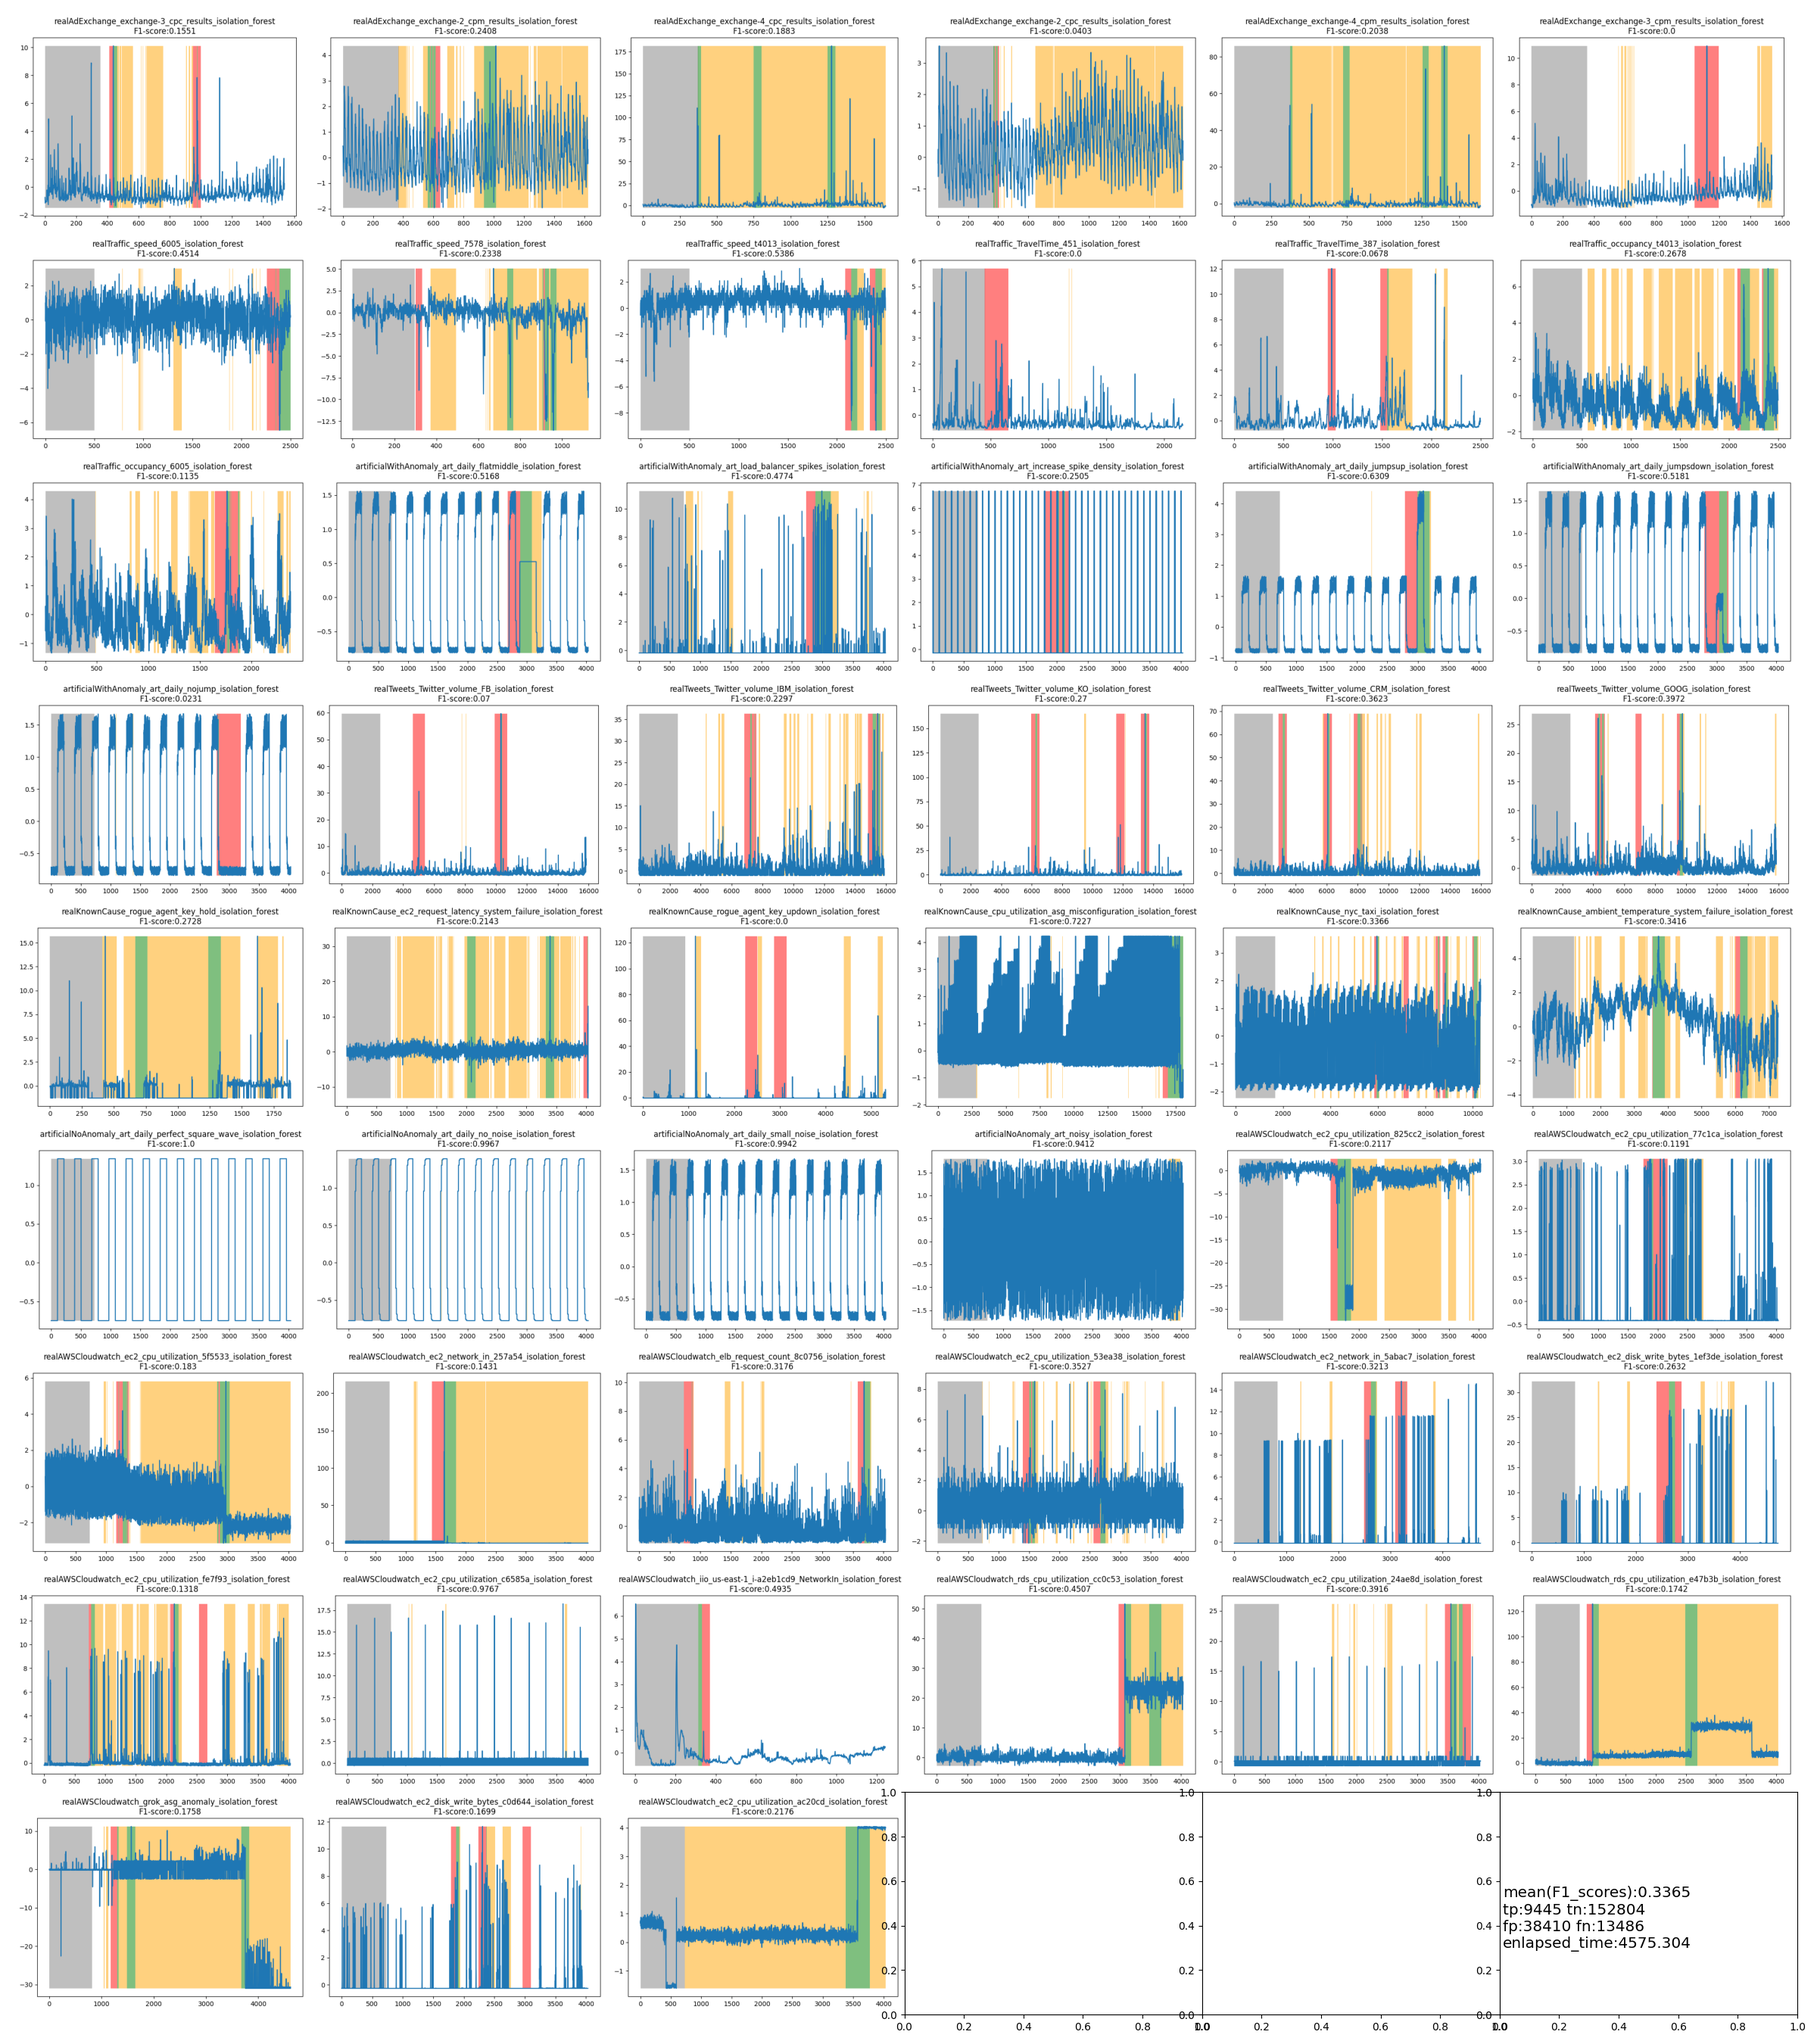
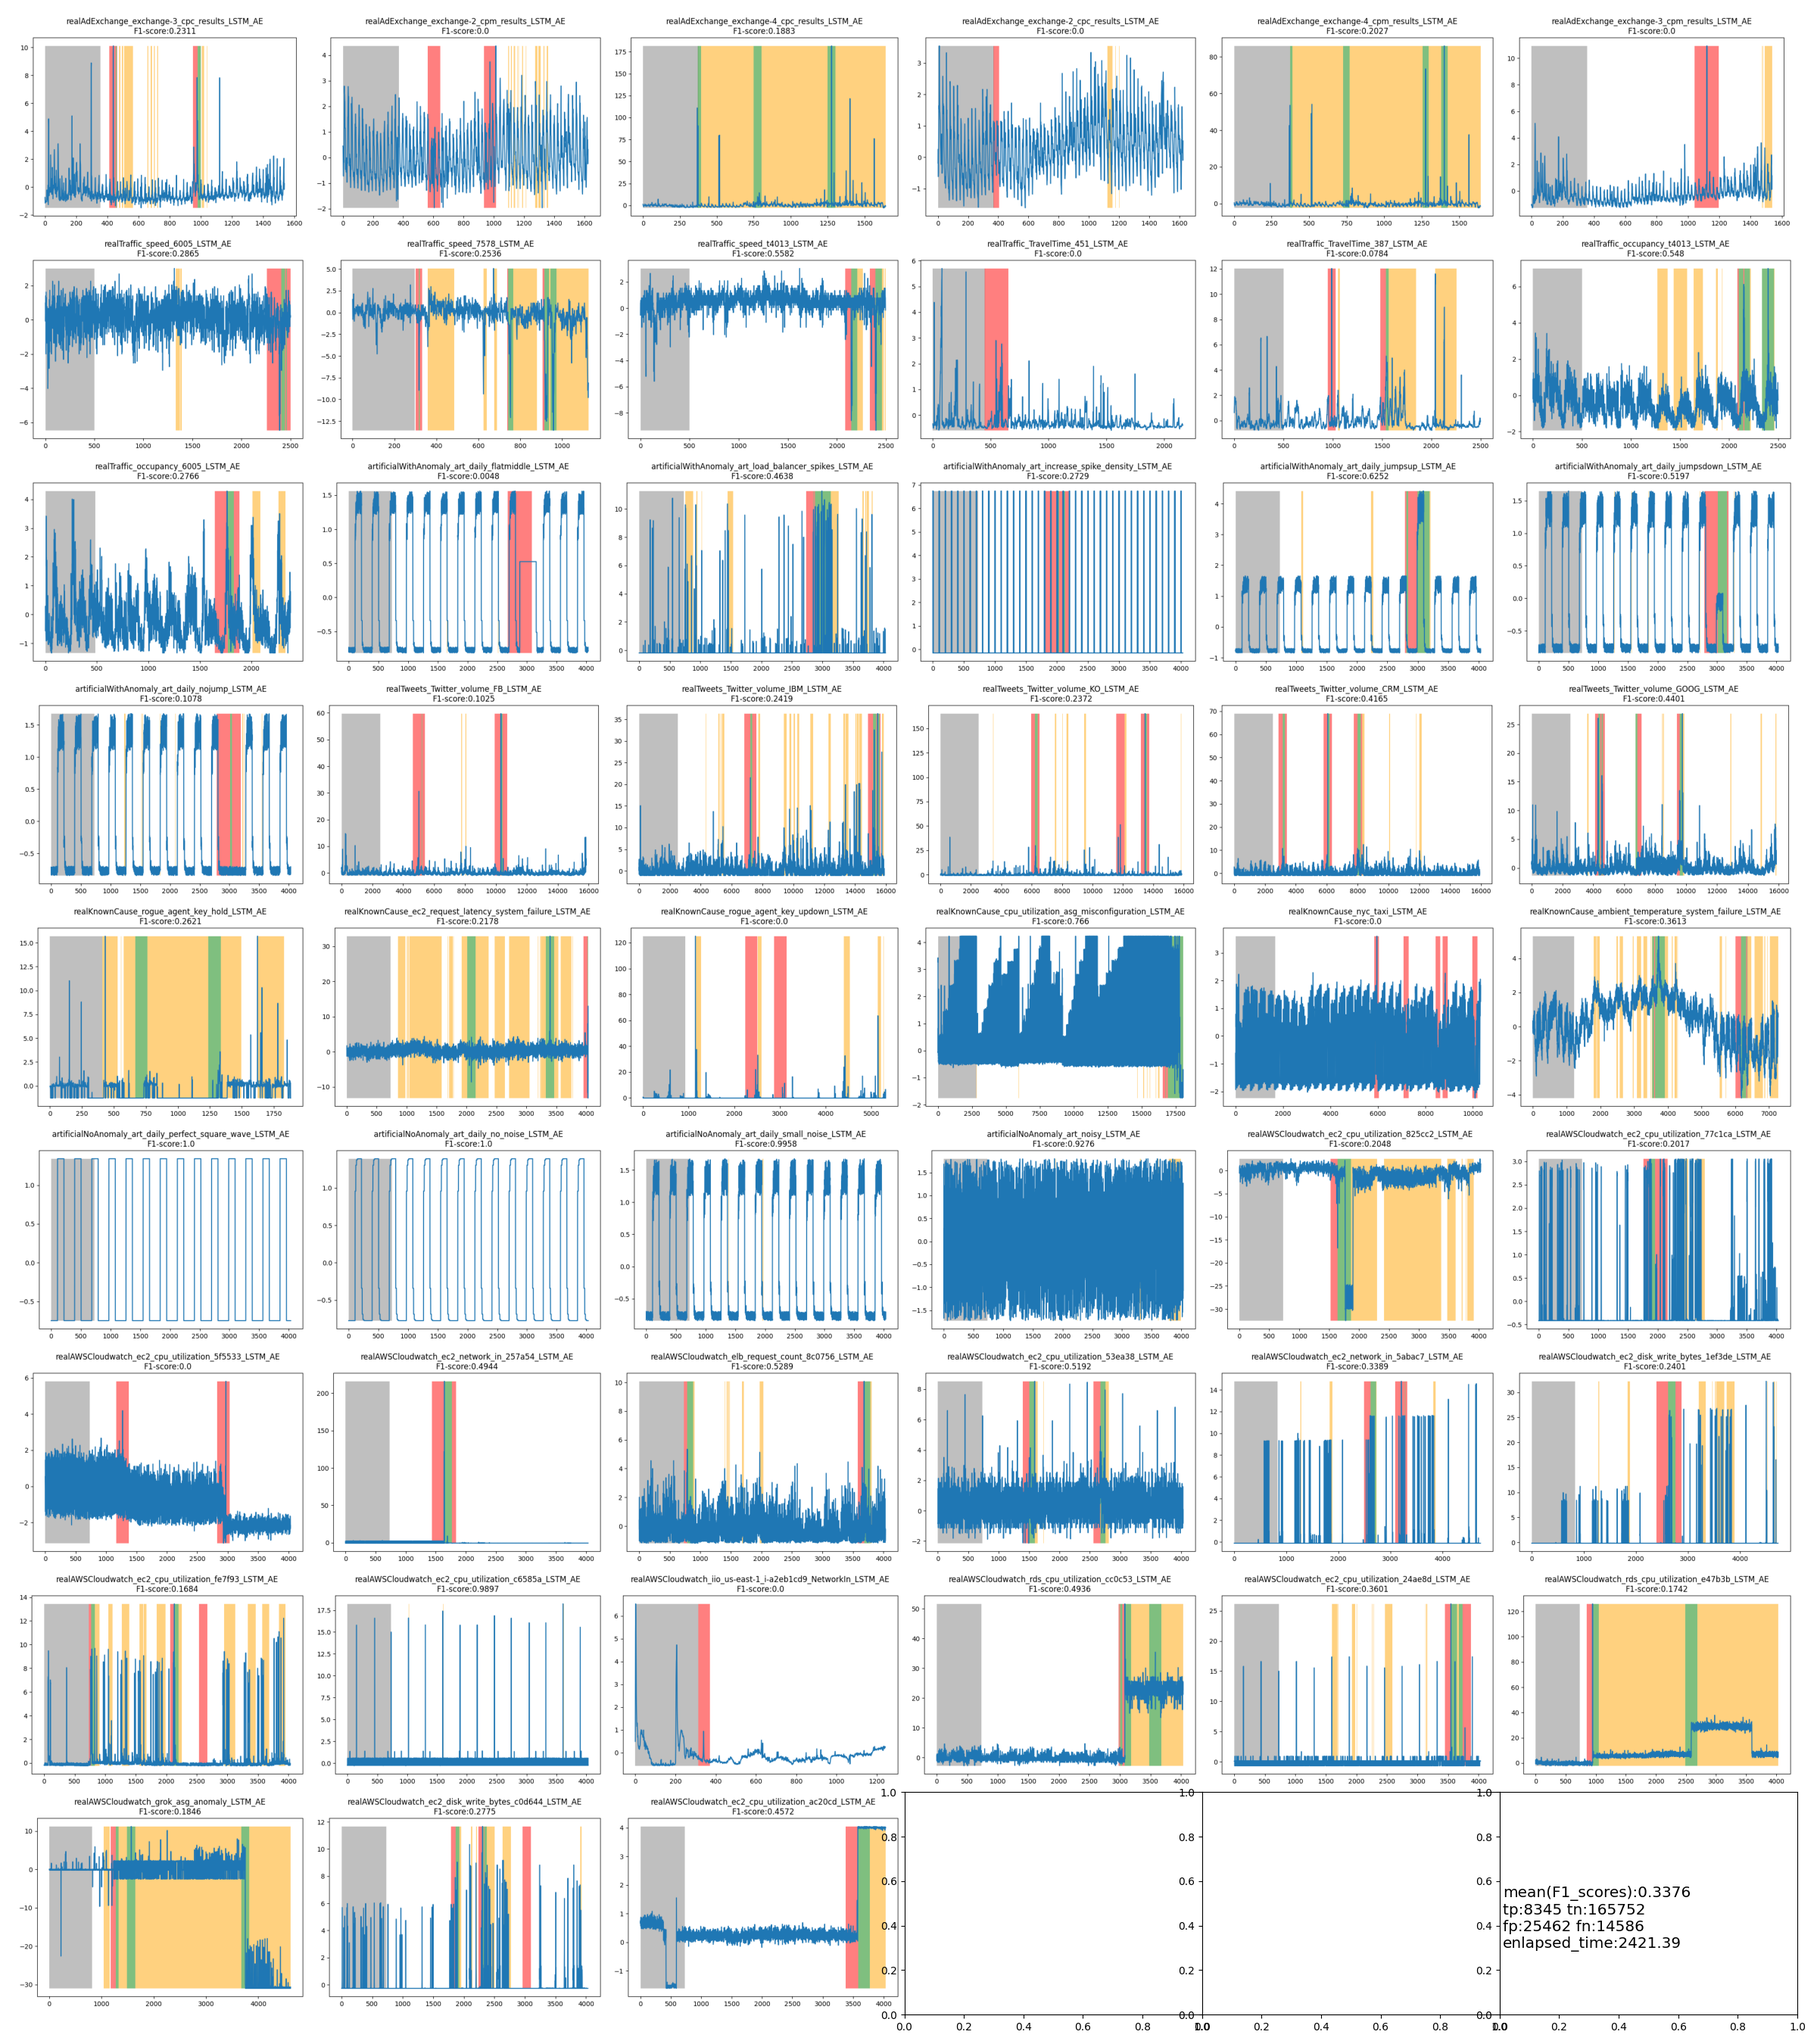
add STUMP algorithm, LSTM_AE features extractor is now more robust by post-processing NaN values

diff --git a/offline_strategies/autoencoder.py b/offline_strategies/autoencoder.py
@@ -25,7 +25,7 @@ def default_conv_hyperparameters():
             "init_filters": 32, "dropout_rate":0.2, "lr":0.001, "nb_layers":4,
             "batch_size":128,"l2_reg":0.001,"percentile":0.999,"epochs":1000}
 
-def _from_loss_to_proba(rescaled_reconstruction_loss, rescaled_thresh):
+def _from_standardized_loss_to_proba(rescaled_reconstruction_loss, rescaled_thresh):
     try:
         # check
         assert (1. >= rescaled_reconstruction_loss >= 0.)
@@ -44,6 +44,15 @@ def _from_loss_to_proba(rescaled_reconstruction_loss, rescaled_thresh):
 
     reconstruction_proba=np.clip(reconstruction_proba,0,1)
     return reconstruction_proba
+
+def _from_loss_to_proba(raw_reconstruction_loss,raw_threshold, min_train, max_train):
+    rescaled_thresh = (raw_threshold - min_train) / (max_train - min_train)
+    rescaled_reconstruction_loss = ((raw_reconstruction_loss - min_train) / (max_train - min_train))
+    rescaled_reconstruction_loss = np.clip(rescaled_reconstruction_loss, 0, 1)
+    probabilities = np.zeros((len(rescaled_reconstruction_loss),))
+    for i, l in enumerate(rescaled_reconstruction_loss):
+        probabilities[i] = _from_standardized_loss_to_proba(l, rescaled_thresh)
+    return probabilities
 
 def LSTM_AE_keras(x,X_train,hyperparameters):
     # Dimensions are write before each line break. The batch_size dims is ignored for visibility purpose
@@ -221,13 +230,7 @@ class AE:
 
         reconstruction_loss = np.mean(np.abs(x_frames_pred - x_frames), axis=1)
 
-        rescaled_thresh=(self.threshold-self.min)/(self.max-self.min)
-        rescaled_reconstruction_loss=((reconstruction_loss-self.min)/(self.max-self.min))
-        rescaled_reconstruction_loss=np.clip(rescaled_reconstruction_loss,0,1)
-
-        probabilities=np.zeros((len(rescaled_reconstruction_loss),))
-        for i,l in enumerate(rescaled_reconstruction_loss):
-            probabilities[i]=_from_loss_to_proba(l, rescaled_thresh)
+        probabilities=_from_loss_to_proba(reconstruction_loss,self.threshold,self.min,self.max)
         return probabilities
 
     def features_extractor(self,x_frames):
@@ -244,6 +247,10 @@ class AE:
             raise ValueError("Error in features_extractor(). Unexpected features vector shape")
 
         features=np.reshape(features,newshape=newshape)
+
+        # handle nan values to be more robust
+        features[np.isnan(features)]=0.
+
         return features
 
     def __del__(self):

diff --git a/experiments.py b/experiments.py
@@ -17,6 +17,8 @@ def LAUNCH_EXPERIMENTS_AT_SCALE(feature_extractor_name, detector_name, datasets)
     paths_for_mosaic=[] # we will build a beautiful mosaic
     stats_for_mosaic=[]
     for dataset_name, dataset in datasets.items():
+            name = dataset_name.replace(os.sep, "_").split(".")[0] + "_"+detector_name
+            path = os.path.join("tmp", name + ".png")
             stat,details=EXPERIMENT(dataset,
                                      dataset_name,
                                      train_test_split_rate=0.15,
@@ -26,12 +28,11 @@ def LAUNCH_EXPERIMENTS_AT_SCALE(feature_extractor_name, detector_name, datasets)
                                      AD_strategies_name=detector_name,
                                      proba_thresh=0.5
                                      )
+
+
             if stat is not None:
                 # Monitor
                 print(dataset_name, " stats:", stat)
-                name = dataset_name.replace(os.sep, "_").split(".")[0] + "_isolation_forest"
-                path = os.path.join("tmp", name + ".png")
-
                 paths_for_mosaic.append(path)
                 stats_for_mosaic.append(stat)
                 txt = name + "\nF1-score:" + str(stat["f1"])

diff --git a/main.py b/main.py
@@ -1,11 +1,16 @@
+import os
+os.environ["CUDA_VISIBLE_DEVICES"]="-1" # The CPU is about as fast as the GPU for TS applications and contains much more memory
+
+
 from experiments import LAUNCH_EXPERIMENTS_AT_SCALE
 from strat_map import detector_strat_map,feature_extractor_strat_map
 if __name__=="__main__":
     from extract_data import extract_datasets
     datasets=extract_datasets("./data/NAB/")
-    feature_extractor="IDENTITY"
+    fe_strat_name="LSTM_AE"
+    detector_strat_name= "IFOREST" # Isolation Forest implemented by scikit-learn
+    #for detector_strat_name in ["STUMP"]: # for each known detection strategy
 
-    for detector in detector_strat_map.keys(): # for each known detection strategy
-        print("Compute the mosaic with the strategy: ", detector)
-        results=LAUNCH_EXPERIMENTS_AT_SCALE(feature_extractor,detector,datasets)
-        print(feature_extractor, detector, results)
+    print("Compute the mosaic with the strategy: ", detector_strat_name)
+    results=LAUNCH_EXPERIMENTS_AT_SCALE(fe_strat_name, detector_strat_name, datasets)
+    print(fe_strat_name, detector_strat_name, results)

diff --git a/realtime_strategies/algos.py b/realtime_strategies/algos.py
@@ -163,6 +163,32 @@ def CADKNN(train_dataset, test_dataset, hyperparameters={}):
     return predict_with_strat(algo, test_dataset)
 
 
+def stump(train_dataset, test_dataset,hyperparameters={"w":128,"quantile":0.9}):
+    import stumpy
+    from stumpy import stumpi
+    mp=stumpi(train_dataset["x"],hyperparameters["w"],egress=False)
+    for x in test_dataset["x"]:
+        mp.update(x)
+
+    # extract distances and thresh
+    distances=mp.left_P_
+
+
+    # offset training distances
+    training_distances=distances[:len(train_dataset["x"])]
+    training_distances=training_distances[hyperparameters["w"]//2:]
+
+    testing_distances=distances[-1*len(test_dataset["x"]):]
+
+    from offline_strategies.autoencoder import _from_loss_to_proba
+    min=np.min(training_distances)
+    max=np.max(training_distances)
+    thresh=np.quantile(training_distances,hyperparameters["quantile"])
+    proba=_from_loss_to_proba(testing_distances,thresh,min,max)
+    assert(len(proba)==len(test_dataset["x"]))
+
+
+    return proba
 
 
 

diff --git a/strat_map.py b/strat_map.py
@@ -1,5 +1,5 @@
 # When a new algorithm is implemented do not forget to update this file
-from realtime_strategies.algos import CADKNN,RE,Numenta,OSE
+from realtime_strategies.algos import CADKNN,RE,Numenta,OSE,stump
 from offline_strategies.algos import oneclass_svm,isolation_forest,elliptic_envelope
 from offline_strategies.algos import conv_AE_reconstruction,LSTM_AE_reconstruction,dense_AE_reconstruction
 from offline_strategies.from_signal_to_frames import ROCKET, DATAAUG, IDENTITY
@@ -9,6 +9,7 @@ detector_strat_map={"RE":(RE,True),
            "CADKNN":(CADKNN,True),
            "ARTIME":(Numenta,True),
            "OSE":(OSE,True),
+            "STUMP":(stump,True),
 
            "ELLIPTIC": (elliptic_envelope,False),
            "ONESVM": (oneclass_svm,False),

diff --git a/offline_strategies/AEC.py b/offline_strategies/AEC.py
@@ -1,4 +1,4 @@
-
+"""
 from tensorflow.compat.v1 import ConfigProto
 from tensorflow.compat.v1 import InteractiveSession
 config = ConfigProto()
@@ -155,3 +155,4 @@ class AE:
         except:
             pass
 
+"""

diff --git a/README.md b/README.md
@@ -40,7 +40,7 @@ To compare multiple workflows at scale on many time series I design this workflo
 
 Methods used:
 - Features extractor may include: data augmentation (keyword: "DATAAUG"), ROCKET [^1] ("ROCKET"), autoencoder compression ("DENSE_AE","CONV_AE","LSTM_AE"), or no one ("IDENTITY").
-- Realtime detectors:  Adaptive Resonance [^2] ("ARTIME"), Conformal Anomaly Detector K-NN [^3] ("CADKNN"), x ("OSE"), Relative Entropy ("RE").
+- Realtime detectors:  Adaptive Resonance [^2] ("ARTIME"), Conformal Anomaly Detector K-NN [^3] ("CADKNN"), x ("OSE"), Relative Entropy ("RE"), STUMP ("STUMP")
 - Offline detectors: Autocoender with loss reconstruction ("DENSE_AE","CONV_AE","LSTM_AE"), IsolationForest [^4] ("IFOREST"), One-class SVM ("ONESVM"), EllipticEnvelope ("ELLIPTIC").
 
 
@@ -48,7 +48,7 @@ Methods used:
 [^2]: "Unsupervised real-time anomaly detection for streaming data", S. Ahmada et al., Neurocomputing 2017, https://doi.org/10.1016/j.neucom.2017.04.070 
 [^3]: "Conformal k-NN Anomaly Detector for Univariate Data Streams", V. Ishimtsev et al., PMLR 2017, http://proceedings.mlr.press/v60/ishimtsev17a/ishimtsev17a.pdf
 [^4]: "Isolation forest", ICDM 2008, F. T. Liu, https://doi.org/10.1109/ICDM.2008.17
-
+[^5]: "STUMP", S.M. Law,2019, Journal of Open Source Software, 2019
 
 Notice: all methods have been (hyper-)parametrized either re-using commonly used values or by doing myself some preliminary experiments
 
@@ -58,7 +58,7 @@ Frameworks used:
 - scikit-learn [relevant doc page here](https://scikit-learn.org/stable/modules/outlier_detection.html): (non-deep) Machine Learning offline anomaly detectors: One-class SVM, Isolation Forest, Elliptic Envelope...
 - numenta [github here](https://github.com/numenta/NAB): Realtime anomaly detection. It implements recent methods such as ARTime.
 - tensorflow2.9 [relevant doc page here](https://keras.io/examples/timeseries/timeseries_anomaly_detection/): Autoencoder for detecting anomaly based on loss reconstruction, or Autoencoder for extract features.
-
+- stumpy
 
 # DATASETS
 The time series are included in this github in ./data/NAB/. Official link is: https://github.com/numenta/NAB/tree/master/data
@@ -81,11 +81,7 @@ To analyse a result and compare fairly multiple pipelines it is required to eval
 
 ## Comparing different features extractors
 
-I compare a few implemented features extractor with a commonly used detector: IsolationForest. The tested features extraction strategy are:
-* The raw normed signal (key-word: "IDENTITY") rocket and 
-* Features extracted from an autoencoder ("AE")
-* ROCKET algorithm, see ref. below ("ROCKET"")
-* Data-augmented raw normed signal ("DATAAUG")
+I compare a few implemented features extractor with a commonly used detector: IsolationForest for its speed and predictions quality.
 
 ```python
 from experiments import LAUNCH_EXPERIMENTS_AT_SCALE
@@ -101,9 +97,11 @@ if __name__=="__main__":
 produces:
 ```
 IDENTITY IFOREST {'time': 33.986, 'tp': 7928, 'tn': 157209, 'fp': 34005, 'fn': 15003, 'f1': 0.2964}
-AE IFOREST {'time': 2856.494, 'tp': 7124, 'tn': 161476, 'fp': 29738, 'fn': 15807, 'f1': 0.2918}
 ROCKET IFOREST {'time': 176.478, 'tp': 7557, 'tn': 163776, 'fp': 27438, 'fn': 15374, 'f1': 0.33}
 DATAAUG IFOREST {'time': 123.847, 'tp': 6239, 'tn': 170956, 'fp': 20258, 'fn': 16692, 'f1': 0.281}
+CONV_AE IFOREST {'time': 2856.494, 'tp': 7124, 'tn': 161476, 'fp': 29738, 'fn': 15807, 'f1': 0.2918}
+DENSE_AE IFOREST {'time': 1775.215, 'tp': 8126, 'tn': 155902, 'fp': 35312, 'fn': 14802, 'f1': 0.3044}
+LSTM_AE IFOREST {'time': 2545.714, 'tp': 4492, 'tn': 176413, 'fp': 14801, 'fn': 18439, 'f1': 0.2622}
 ```
 
 ** Conclusion: AE is more accurate but at the cost of significant training time. DATAAUG produces hardly small improvement and require a lot of tuning: (choice of noise kinds, probability of the noise, amplitude of the noises...). Indeed, no feature extractor (identity) is a robust, simple and fast strategy.**
@@ -136,11 +134,15 @@ IDENTITY RE {'time': 141.267, 'tp': 878, 'tn': 194490, 'fp': 2714, 'fn': 22540, 
 IDENTITY CADKNN {'time': 1783.387, 'tp': 14517, 'tn': 110398, 'fp': 86806, 'fn': 8901, 'f1': 0.2673}
 IDENTITY ARTIME {'time': 81.399, 'tp': 122, 'tn': 197014, 'fp': 190, 'fn': 23296, 'f1': 0.1119}
 IDENTITY OSE {'time': 3017.315, 'tp': 5986, 'tn': 169234, 'fp': 27970, 'fn': 17432, 'f1': 0.1947}
+IDENTITY STUMP {'time': 114.7, 'tp': 1873, 'tn': 190624, 'fp': 6580, 'fn': 21545, 'f1': 0.1502}
 IDENTITY IFOREST {'time': 33.986, 'tp': 7928, 'tn': 157209, 'fp': 34005, 'fn': 15003, 'f1': 0.2964}
 IDENTITY ONESVM {'time': 25.76, 'tp': 13101, 'tn': 78298, 'fp': 112916, 'fn': 9830, 'f1': 0.2249}
 IDENTITY ELLIPTIC {'time': 673.583, 'tp': 6967, 'tn': 167652, 'fp': 23562, 'fn': 15964, 'f1': 0.2921}
-IDENTITY AE {'time': 3394.014, 'tp': 10083, 'tn': 147247, 'fp': 43967, 'fn': 12848, 'f1': 0.3396}
+
+deep learning approaches:
+IDENTITY CONV_AE {'time': 3394.014, 'tp': 10083, 'tn': 147247, 'fp': 43967, 'fn': 12848, 'f1': 0.3396}
 IDENTITY LSTM_AE {'time': 4575.304, 'tp': 9445, 'tn': 152804, 'fp': 38410, 'fn': 13486, 'f1': 0.3365}
+IDENTITY DENSE_AE {'time': 1266.93, 'tp': 11133, 'tn': 142505, 'fp': 48709, 'fn': 11798, 'f1': 0.3336}
 ```
 
 **Autoencoders is the most accurate at the cost of longer runtime. Isolation Forest is a g ood tradeof between accuracy and speed. The real-time strategies are less accurate than offline ones. This is why I am investigating further the offline ones.**
